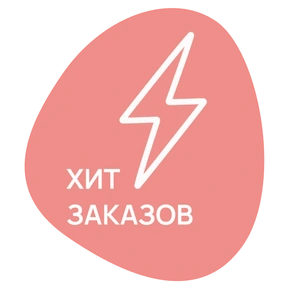
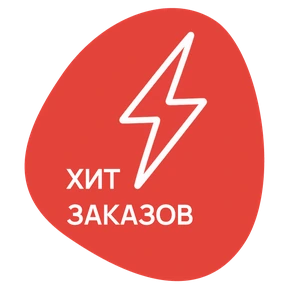
Refine stage 4 typography, slogans and form layout

diff --git a/georgia-russia/index.html b/georgia-russia/index.html
@@ -199,7 +199,7 @@
         </div>
         <div class="service-grid">
           <article class="service-card service-card--relocations">
-            <img class="service-card__badge" src="../assets/services/service-badge-1.webp" alt="Хит заказов" width="288" height="288" loading="lazy" decoding="async">
+            <img class="service-card__badge" src="../assets/services/service-badge-1.webp?v=2" alt="Хит заказов" width="288" height="288" loading="lazy" decoding="async">
             <div class="service-card__copy">
               <h3>Международные переезды</h3>
               <p>Перевезем личные вещи из России в Грузию и обратно. Поможем с подготовкой к отправке.</p>
@@ -214,7 +214,7 @@
             <img class="service-card__image" src="../assets/services/service-parcels.webp?v=20260825-2" alt="" width="400" height="400" loading="lazy" decoding="async" draggable="false">
           </article>
           <article class="service-card service-card--documents">
-            <img class="service-card__badge" src="../assets/services/service-badge-2.webp" alt="Надежно" width="288" height="288" loading="lazy" decoding="async">
+            <img class="service-card__badge" src="../assets/services/service-badge-2.webp?v=2" alt="Надежно" width="288" height="288" loading="lazy" decoding="async">
             <div class="service-card__copy">
               <h3>Доставка документов</h3>
               <p>Стоимость и срок зависят от страны назначения и выбранного способа доставки.</p>
